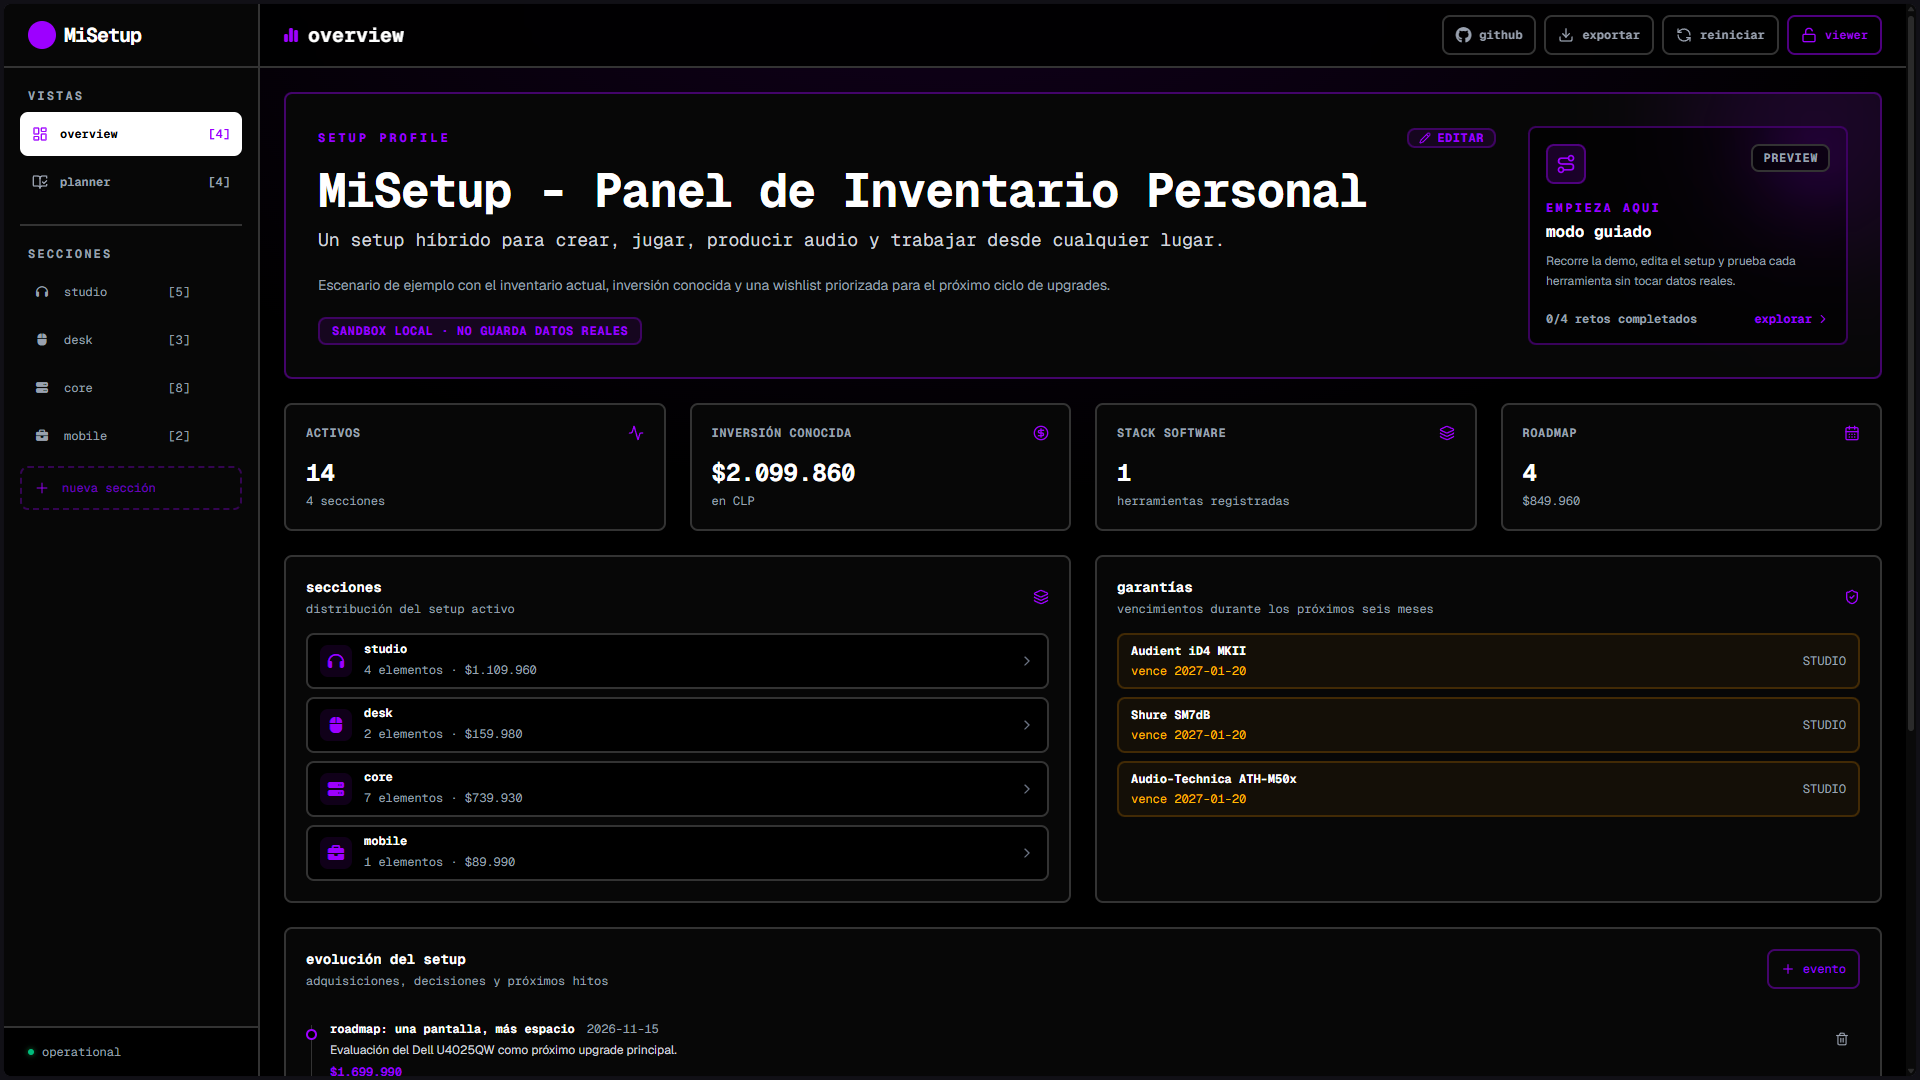
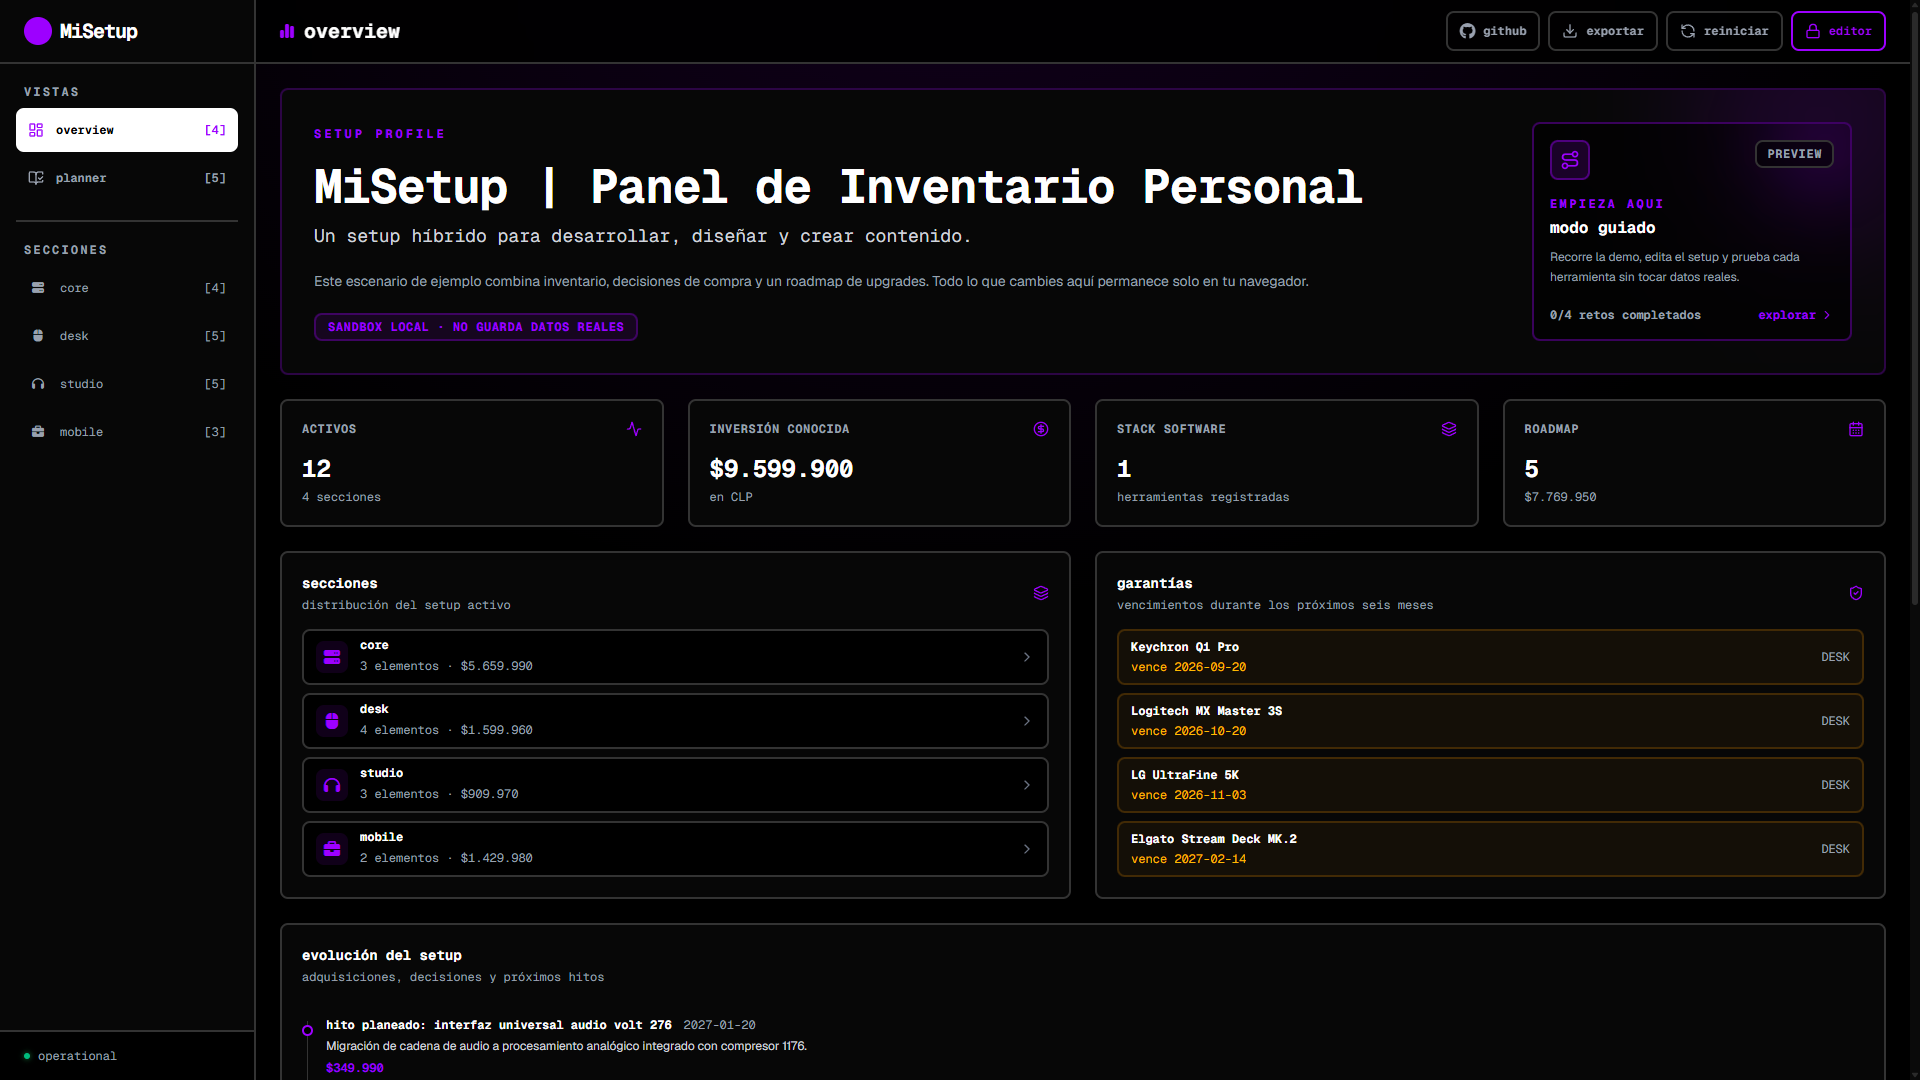
update

diff --git a/index.html b/index.html
@@ -371,7 +371,7 @@
                 "position": 3,
                 "item": {
                   "@type": "SoftwareSourceCode",
-                  "name": "Landing Page Corporativa (ValueDev)",
+                  "name": "ValueDev | Landing Page Corporativa",
                   "url": "https://valuedev-web.vercel.app/",
                   "image": "https://melitacruces.com/images/valuedev.png",
                   "description": "Sitio web institucional responsivo para ValueDev SpA, optimizado para rendimiento, SEO y componentes reutilizables.",
@@ -413,7 +413,7 @@
                 "position": 5,
                 "item": {
                   "@type": "SoftwareSourceCode",
-                  "name": "Plataforma Artística y Portafolio Musical",
+                  "name": "dhreian | Plataforma Artística y Portafolio Musical",
                   "url": "https://dhreian.com",
                   "image": "https://melitacruces.com/images/dhreian.png",
                   "description": "Plataforma web full stack para un artista musical con gestión de datos de usuarios y correos transaccionales automatizados.",

diff --git a/src/data/portfolioData.js b/src/data/portfolioData.js
@@ -126,7 +126,7 @@ export const portfolioData = {
       techStack: ["Arduino", "C++", "MySQL", "Python"]
     },
     {
-      title: "Landing Page Corporativa (ValueDev)",
+      title: "ValueDev | Landing Page Corporativa",
       category: "Desarrollo Front-End",
       image: "/images/valuedev.png",
       liveUrl: "https://valuedev-web.vercel.app/",
@@ -146,7 +146,7 @@ export const portfolioData = {
       techStack: ["Next.js", "React", "Tailwind CSS", "PostgreSQL"]
     },
     {
-      title: "Plataforma Artística y Portafolio Musical",
+      title: "dhreian | Plataforma Artística y Portafolio Musical",
       category: "Desarrollo Full Stack",
       image: "/images/dhreian.png",
       liveUrl: "https://dhreian.com",
